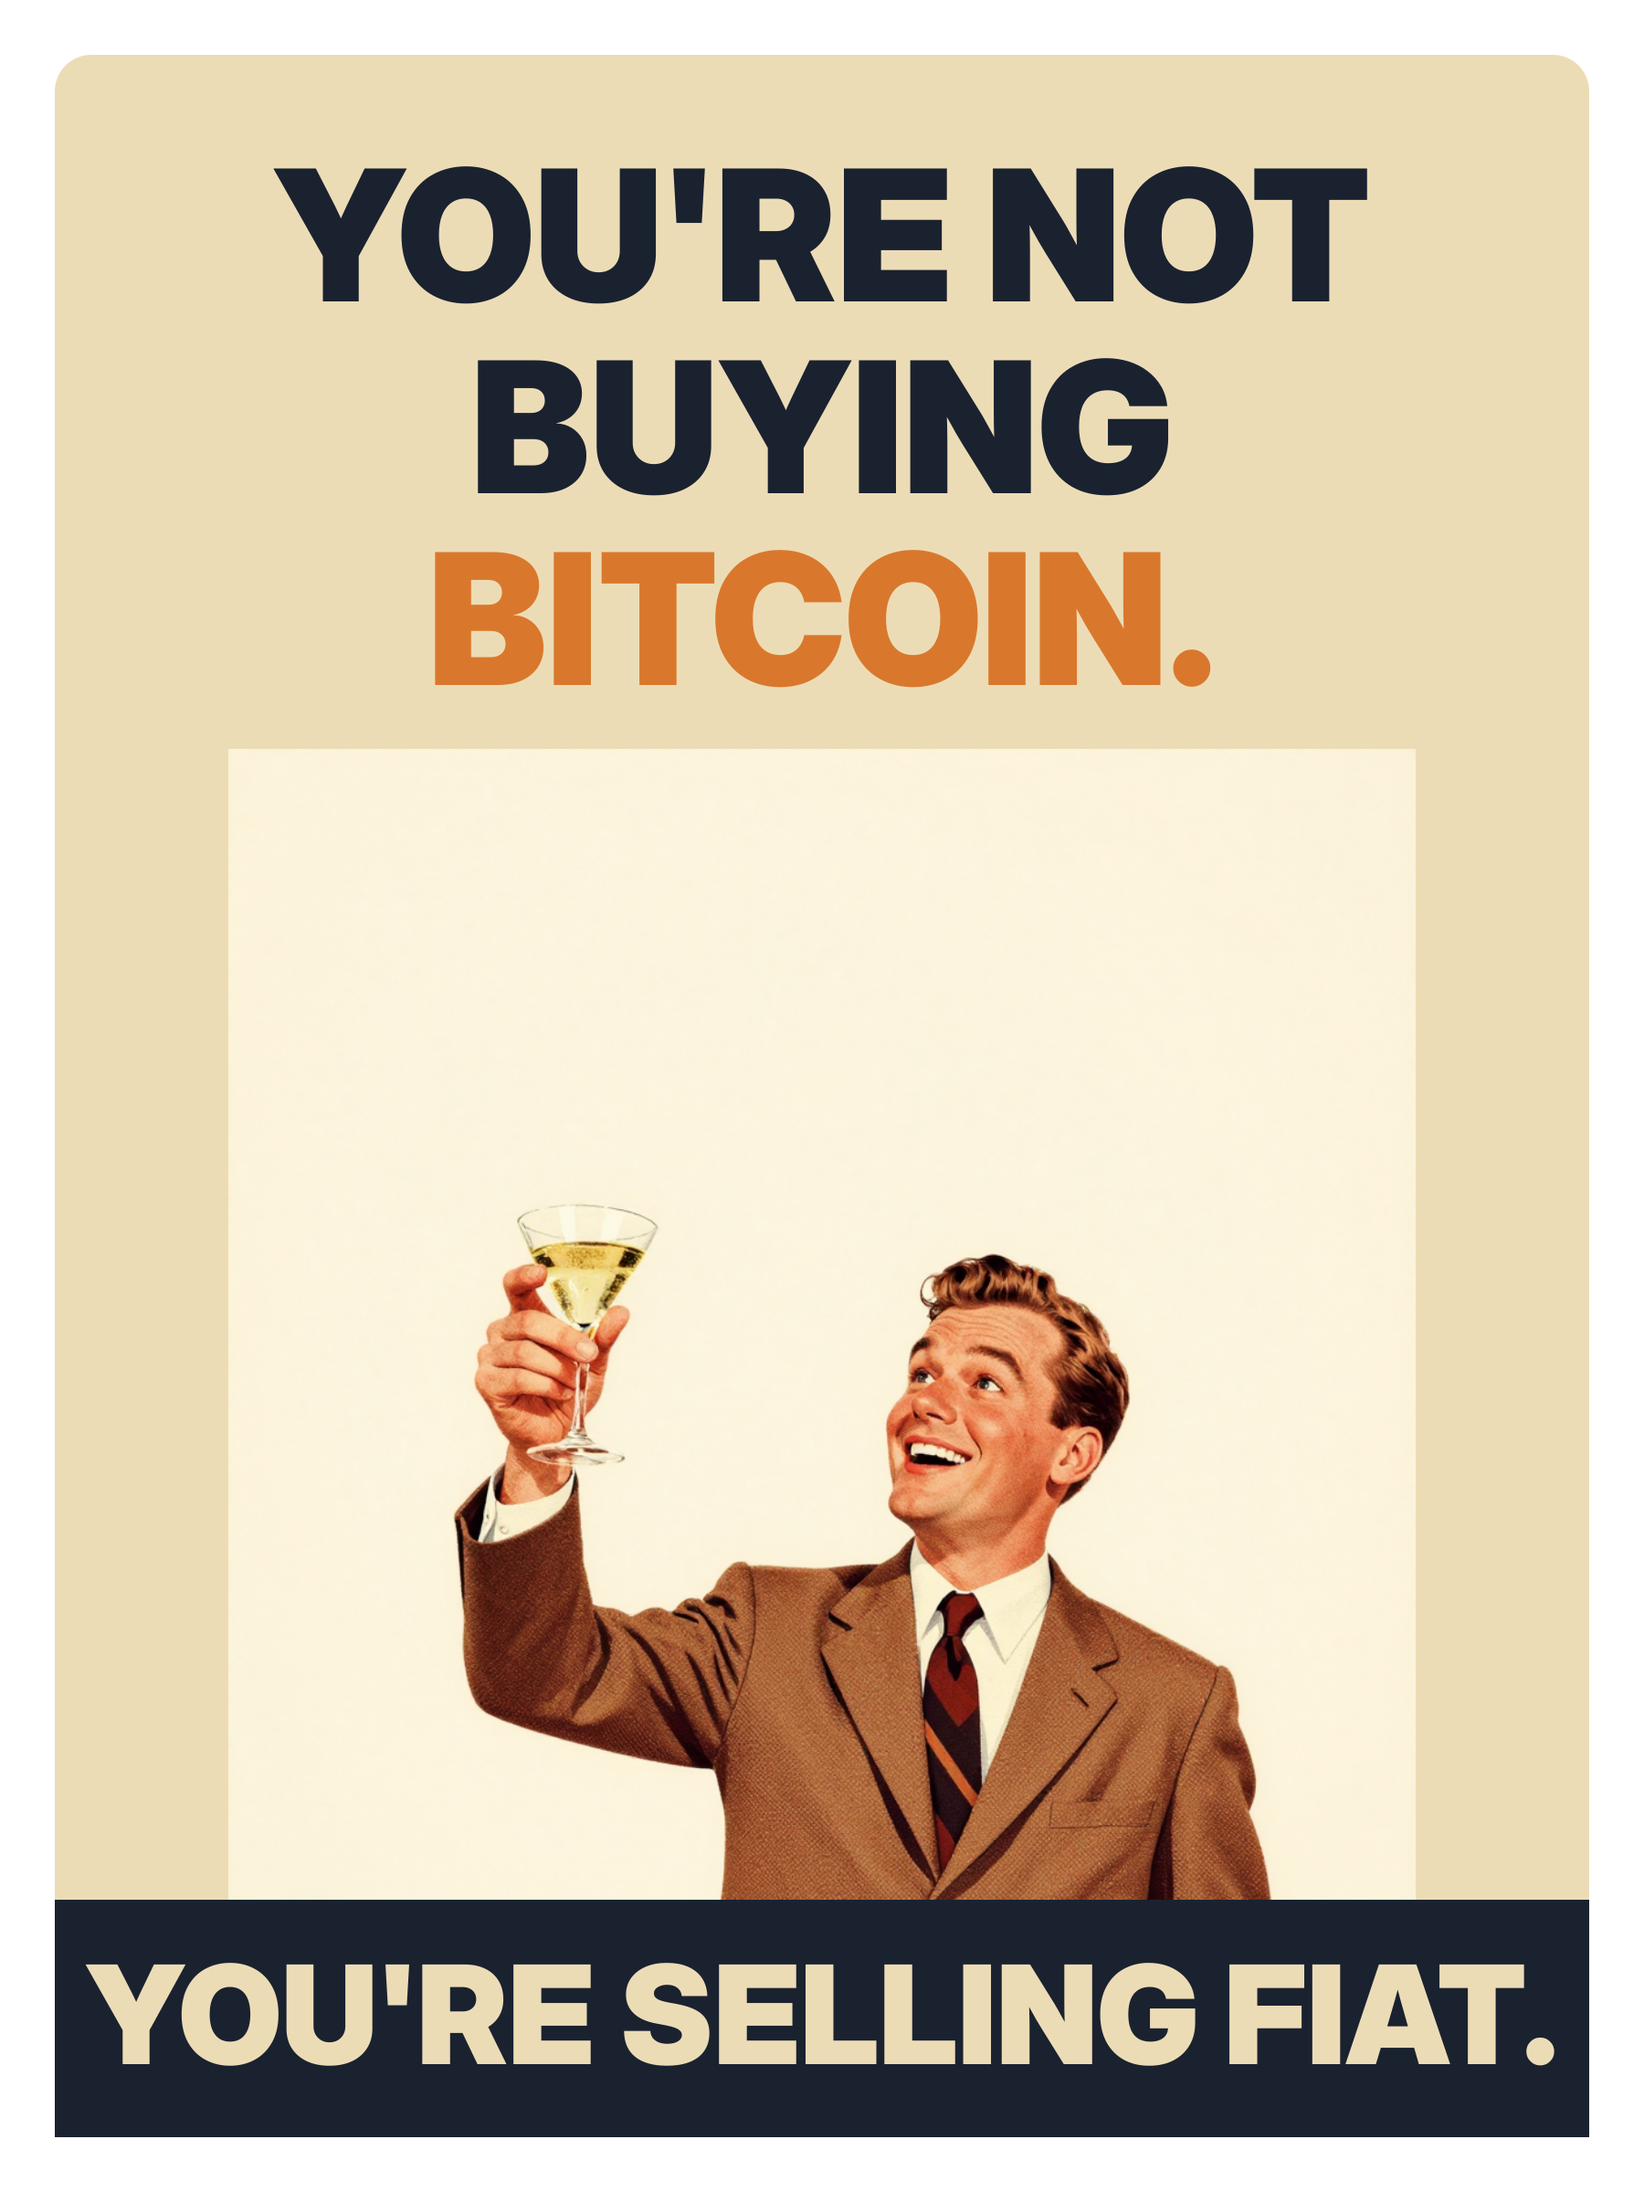
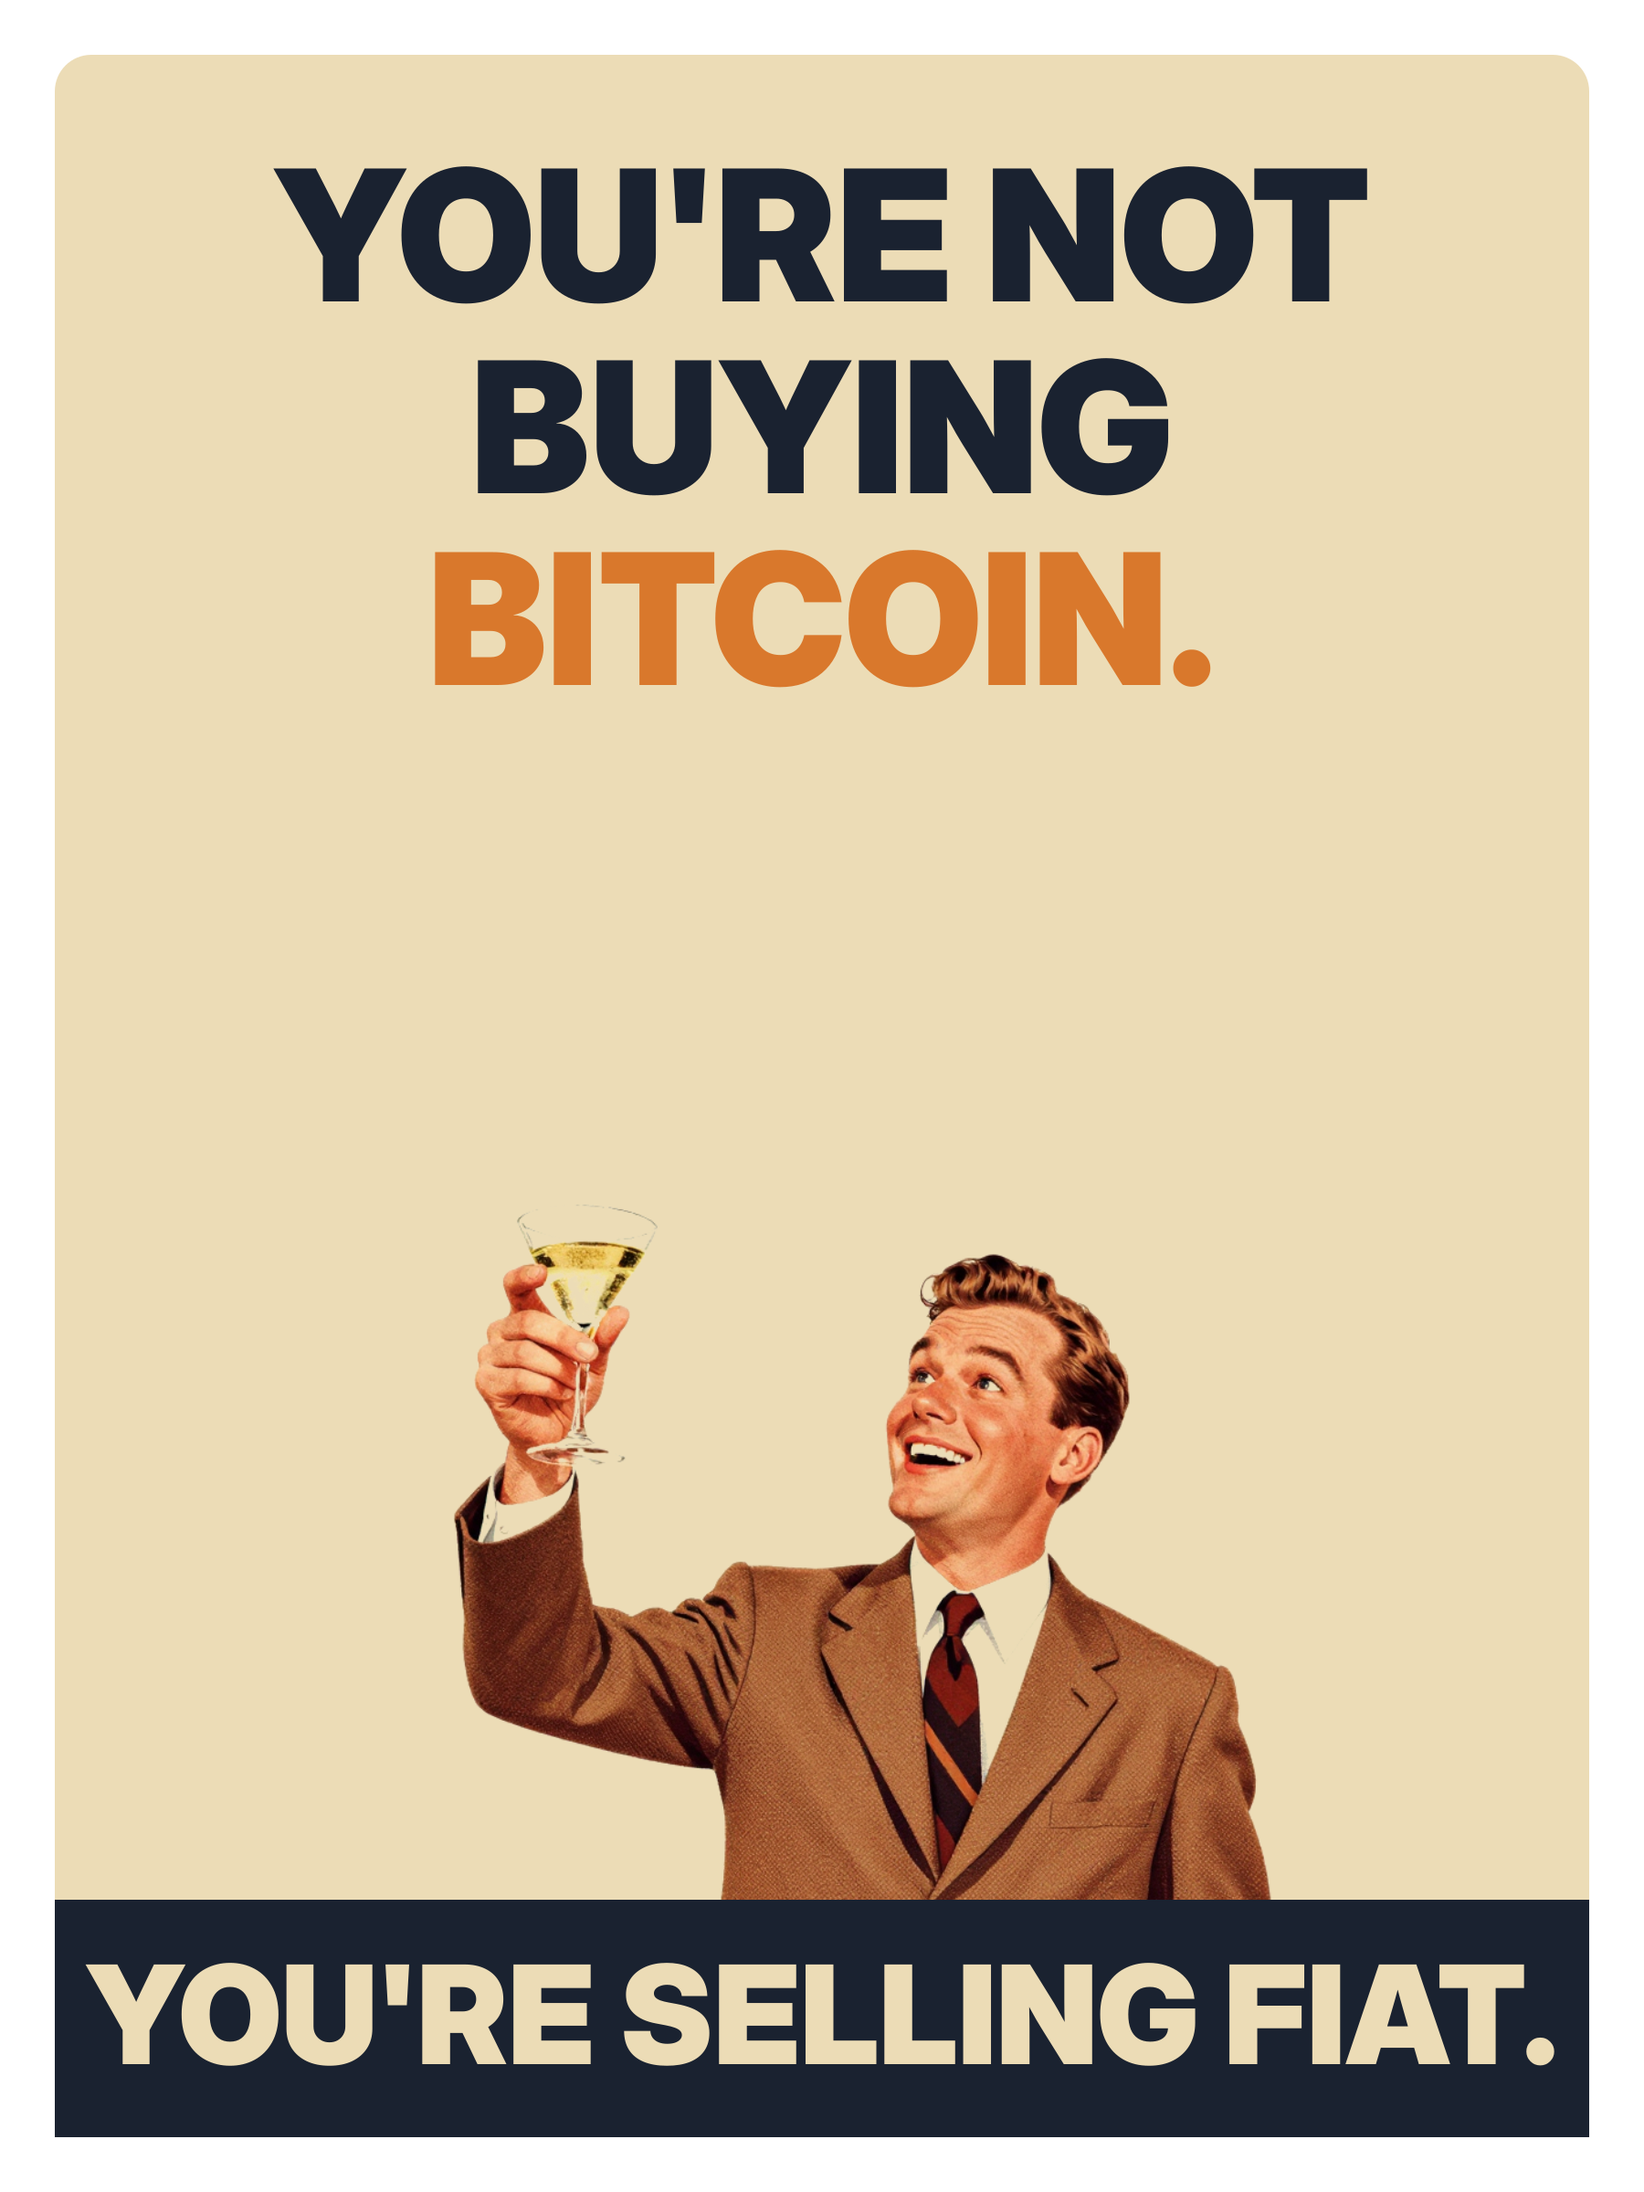
pack 03b: vintage man knocked out, ecosystem caption fits; checkerboard previews

Changed region(s): [[0.1244, 0.3438, 0.8711, 0.875]]

diff --git a/src/gen5.py b/src/gen5.py
@@ -57,7 +57,7 @@ def render(name, w, h, body, sub, defs=""):
 # 1. the vintage man — cream card, the D01 line, our man
 b = f'<rect x="60" y="60" width="1680" height="2280" rx="40" fill="{CREAM}"/>'
 b += txt(900, 330, "YOU'RE NOT", 200, fill=NAVY) + txt(900, 540, "BUYING", 200, fill=NAVY) + txt(900, 750, "BITCOIN.", 200, fill=ORANGE_C)
-b += img(f"{SRC}/vintage-man.png", 250, 820, 1300, 1300)
+b += img(f"{SRC}/vintage-man-alpha.png", 250, 820, 1300, 1300)
 b += f'<rect x="60" y="2080" width="1680" height="260" fill="{NAVY}"/>'
 b += txt(900, 2260, "YOU'RE SELLING FIAT.", 150, fill=CREAM)
 render("vintage-man-selling-fiat-back", 1800, 2400, b, "back-tee")
@@ -87,6 +87,6 @@ render("thank-you-satoshi-window-back", 1800, 2400, b, "back-tee", DRIP + GRAIN)
 # 4. the ecosystem schematic — a white card with the line work (the 4× upscale), tee back
 b = f'<rect x="90" y="390" width="1620" height="1620" rx="30" fill="{WHITE}"/>'
 b += img(f"{SRC}/eco-x4.png", 120, 420, 1560, 1560)
-b += txt(900, 2160, "THE BITCOIN ECOSYSTEM", 96, fill=WHITE) + txt(900, 2260, "proof of work · full nodes · miners · the grid", 48, fill=ORANGE, font=PIX, weight=400)
+b += txt(900, 2160, "THE BITCOIN ECOSYSTEM", 96, fill=WHITE) + txt(900, 2260, "proof of work · nodes · miners · the grid", 34, fill=ORANGE, font=PIX, weight=400)
 render("bitcoin-ecosystem-card-back", 1800, 2400, b, "back-tee")
 print("done →", OUT)
